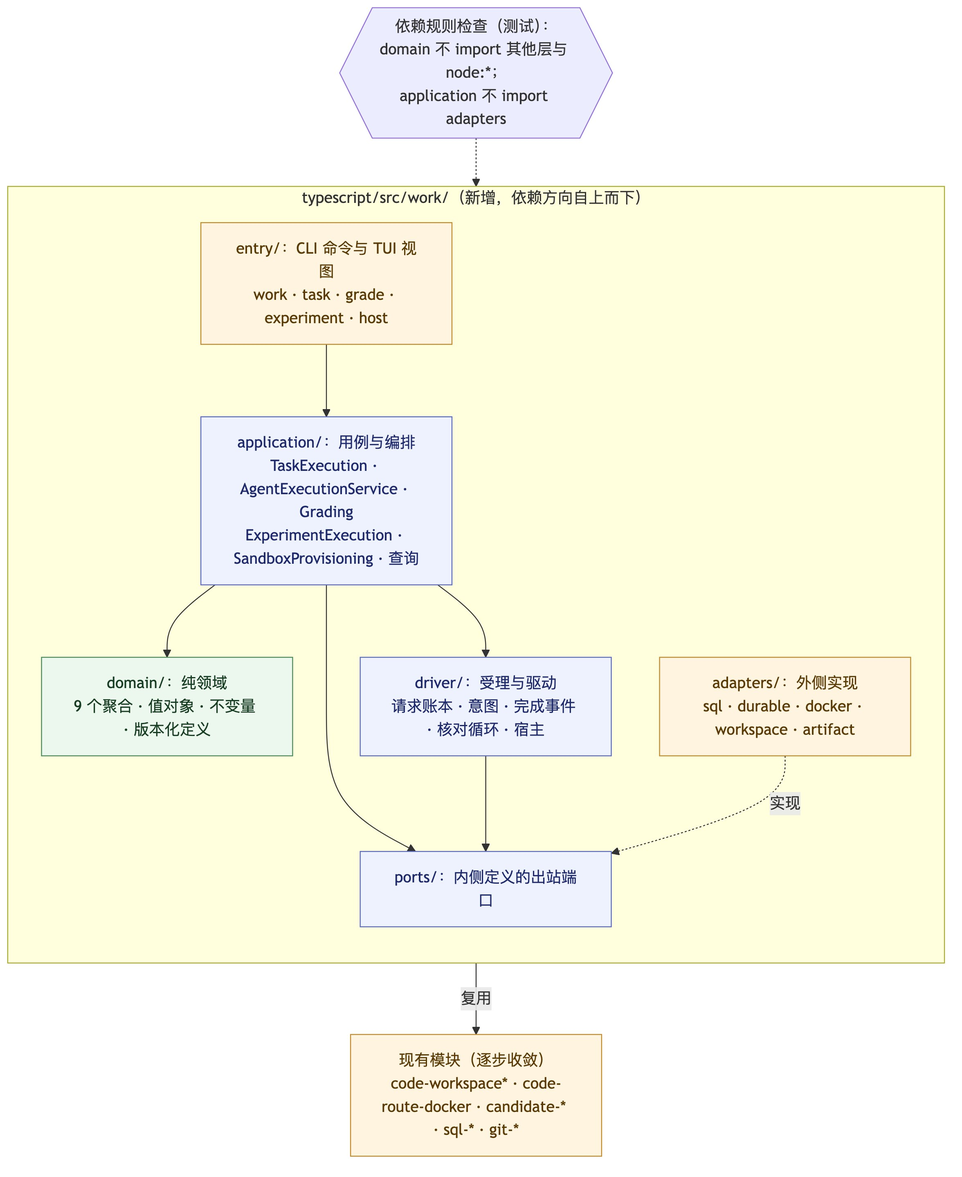
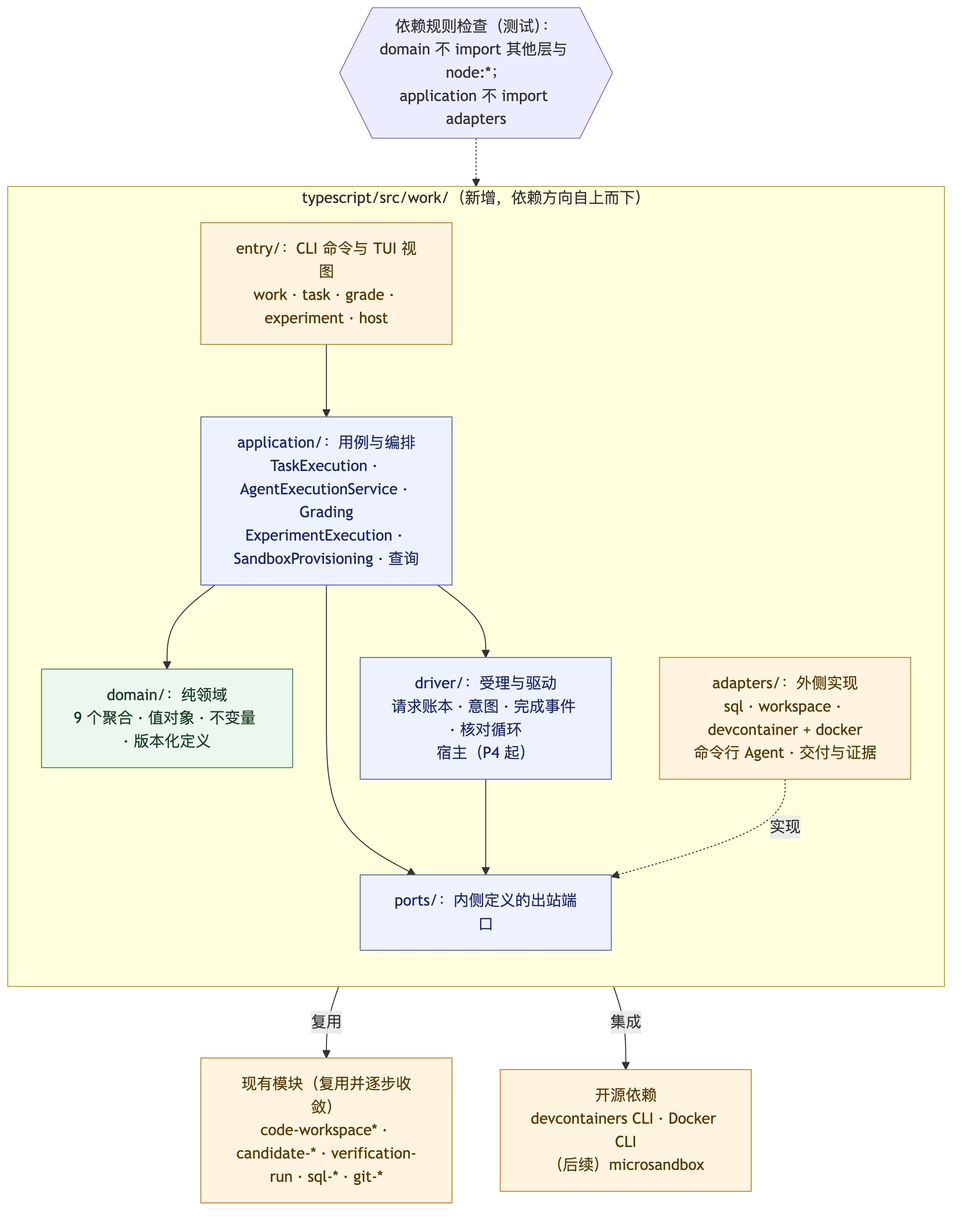
docs: revise implementation plan against the vision (D146)
Second edition of 0002: deliver the bring-your-own-agent contract development loop first, then evaluation assets, then managed execution; integrate devcontainer.json with the devcontainers CLI and Docker instead of building sandboxes; add a local low-friction mode; start managed execution with a command-line agent adapter and make Pi Durable optional. Add external execution, Provider capabilities and devcontainer environments to the target model as proposed D146, redraw the development flow and plan diagrams, and update the vision gap table.

diff --git a/docs/decisions/0002-implementation-plan.md b/docs/decisions/0002-implementation-plan.md
@@ -1,152 +1,152 @@
 # 0002 通用 Agent 执行与评测：实现方案
 
-- 日期：2026-11-02。
-- 状态：**提议，需按[项目愿景](../vision.md)修订后再确认（D145）**。自带 Agent 优先，以及沙箱与隔离优先集成开源实现，会改变第 1、6、8、10 节的范围与顺序。下文保留修订前的原稿。第 10 节列出需要拍板的决定；未列出的部分是按目标模型推导出的工程安排，按常规评审即可。
-- 依据：[目标模型](0001-target-model.md)（D129–D144，已确认）；现有源码结构见第 2 节。
-- 范围：一期的代码组织、存储、驱动、适配器、迁移与切换、里程碑与验证方式。本文不改变业务规则；实现中如果发现规则需要调整，回到 0001 记录。
+- 日期：2026-11-02，第二版。第一版（自建沙箱与驱动、Pi Durable 优先）按 [项目愿景](../vision.md) 修订，原稿见本文件的 Git 历史。
+- 状态：**提议，待用户确认**。需要拍板的决定见第 11 节。
+- 依据：[项目愿景](../vision.md)；[目标模型](0001-target-model.md)（D129–D146）。
+- 范围：一期的交付顺序、代码组织、存储、沙箱集成、Agent 接入、迁移与切换、测试方式。本文不改变业务规则。
 
 ## 1. 结论
 
-1. **在现有仓库中新建 `typescript/src/work/` 子树，按六边形分层**（domain / application / ports / driver / adapters / entry），用一条测试守住依赖方向。现有模块不就地改写，由适配器复用，逐步收敛。
-2. **新增 schema v24：为 9 个运行聚合与版本化定义建专用表**。需要唯一约束或索引的字段用列存放，其余放在带摘要的 JSON 中，三种数据库都要支持。现有的 `idempotency_records` 继续作为请求账本，`ledger_events` 继续作为审计流水。
-3. **M0 先做技术验证，再写业务代码**：Pi Durable 锁定版本后接入容器工具桥接，验证按执行隔离的 SQLite 存储、Docker 暂停与恢复。不通过就回到 D69 重新选型，避免在不可行的内核上堆业务。
-4. **开发闭环（M5）一次性切换**：以“切换时没有运行中的 DevRun”（D114）为前提做离线迁移，迁移时沿用原有 ID。评测闭环（M6）随后单独切换。
-5. **迁移是第一个实现决策**：Issue → Task，DevRun → TaskRun 加 Work，Verification → gate GradingRecord，QA 与评测记录 → 新结构。规则见第 7 节。
+1. **先交付价值 1，再交付价值 2，最后才做托管执行。** 第一个可用版本是“自带 Agent 的契约开发闭环”：用户继续用 Claude Code 或 Codex 开发，Grounds 负责契约、冻结、独立验收和工作线。它复用现有的 skill 工作流与开发 worktree，不需要后台宿主、沙箱或新的 Agent 内核。
+2. **价值 2 紧随其后**：从历史开发沉淀评测项、补充评分依据（隐藏测试、参考答案）、用规则或测试评分。这些都可以在没有托管执行的情况下完成。
+3. **托管执行放在最后**，用于评测时“换一个 Agent 重跑”。Provider 一期先做命令行 Agent 适配器（Claude Code、Codex 的无界面模式），Pi Durable 作为后续可选的、带恢复能力的 Provider。
+4. **沙箱不自建，集成开源实现**：环境定义采用 devcontainer.json，用 devcontainers CLI 构建与启动；生命周期操作（停止、暂停、删除、按标签查询）直接调用 Docker。强隔离后端（microsandbox）作为后续选项。
+5. **本地低摩擦是一期目标**：默认使用 SQLite，为个人用户提供本地归档模式，并让 `grounds init` 一步完成初始化。
+6. 代码组织、存储形态、迁移时沿用 ID、分两次切换，这几项保持第一版的建议。
 
 ## 2. 现状与复用
 
-| 现有 | 规模与形态 | 在新结构中的位置 |
-| --- | --- | --- |
-| SQL 账本（`sql-*.ts`，schema v23） | 关系表承载 Requirement / Issue / DevRun / Candidate / Verification；`eval_records` 与 `runtime_records` 是带版本的 JSON 表；`idempotency_records`、`ledger_events` | 新表并入同一账本；沿用 `Store.write / read` 事务、`SqlDialect` 和三种后端的测试夹具 |
-| `module.ts`（2437 行）、`cli.ts`（2345 行） | Requirement / Issue / DevRun / Candidate / Verification 的命令与 CLI | 开发闭环切换后，DevRun 和 Verification 的写入口停用；Candidate 的提交与归档逻辑由 coding 任务类型的适配器复用 |
-| `code-workspace*.ts`、`code-route-*.ts` | Workspace 配置、缓存、基线、worktree、Docker 路线、暂停围栏、清理 | 由 `adapters/workspace` 与 `adapters/docker` 包装后复用；把与 Issue / DevRun 的绑定换成 Sandbox 归属者 |
-| `candidate-git-archive.ts` 等 | Candidate 的 Git 归档与核对 | coding 交付的存取端口直接复用 |
-| `verification-run.ts` | 独立验收的阶段记录 | 映射为评价者 AgentExecution 的协议阶段；内置独立验收评分器复用其阶段约束 |
-| `evaluation.ts`、`eval-*.ts`，以及 `plugins/grounds/scripts/grounds_eval_*.py` | Suite / Snapshot / Experiment / Run / Grader / QA；Python 协调器与 Codex 采集 | M6 迁移到新结构；Python 协调器与 Codex 采集在 M7 退役（D69） |
-| `env-*.ts` | 共享环境层（`env up / run / down`） | 评测侧的运行资源改由 Sandbox 接管；能复用的 Docker 操作下沉到 `adapters/docker` |
-| `typescript/test`（205 个文件，含 `*-docker.test.ts` 与 `backends.ts`） | 单元、CLI 契约、三后端一致性、Docker 集成 | 新测试沿用同一结构与命名 |
+| 现有 | 在新结构中的位置 |
+| --- | --- |
+| SQL 账本（`sql-*.ts`，schema v23，三种数据库） | 新表并入同一账本，沿用事务、方言与三后端测试夹具 |
+| `module.ts`、`cli.ts` 中 DevRun / Candidate / Verification 的命令 | Candidate 的提交与归档逻辑由 coding 任务类型复用；开发闭环切换后，DevRun 与 Verification 的写入口停用 |
+| `plugins/grounds/skills/grounds` 的开发与验收工作流 | **外部执行的主要入口**：skill 引导自带 Agent 领取 Workspace、提交清单；协调者拉起全新会话做独立验收。改为调用新的 `work` 命令 |
+| `code-workspace*.ts`（配置、缓存、基线、worktree、清理） | Workspace 适配器直接复用；绑定从 Issue / DevRun 改为 Sandbox 归属者 |
+| `code-route-docker.ts`、`repository-environment.ts`、`development-image-*.ts` | 第一阶段继续可用；托管执行阶段由 devcontainer 方案逐步替代，旧配置作为兼容格式保留只读 |
+| `verification-run.ts`、`submitVerification` 的身份与盲验校验 | 外部评价者的协议阶段与独立性校验直接复用 |
+| `evaluation.ts`、`eval-*.ts`、`grounds_eval_*.py` | 评测资产阶段迁移到新结构；Python 协调器与 Codex 采集在退役阶段移除 |
 
-## 3. 代码组织
+## 3. 交付阶段
+
+![交付阶段](../assets/impl-milestones.jpg)
+
+[Mermaid 源](../assets/impl-milestones.mmd)
+
+| 阶段 | 交付 | 对应愿景 | 完成标准 |
+| --- | --- | --- | --- |
+| **P0 领域与存储** | `work/domain` 的 9 个聚合（含外部执行登记）；schema v24；仓储；迁移演练 | 基础 | 不变量与竞态测试（取消先后、移交预留、工作头 CAS、失败类别优先级、外部停止声明）；三后端一致性测试 |
+| **P1 契约开发闭环（自带 Agent）** | TaskExecution、Work、外部执行的登记与提交、gate 加外部评价者、内置独立验收协议、`work` 命令、skill 改造、v24 数据迁移与切换 | 价值 1 | 用 Claude Code 或 Codex 走完目标模型 §7.2 的流程；迁移前后完整性检查通过；旧的 Candidate、验收与选择记录可读 |
+| **P2 本地低摩擦** | 默认 SQLite、本地归档模式、`grounds init` 一步完成、预编译安装包评估 | 价值 3 | 一台只装了 Node 和 Git 的机器，在 5 分钟内完成首个任务的契约、提交与验收（以实测为准） |
+| **P3 评测资产** | 从历史 TaskRun 沉淀评测项；补充评分依据（从被采纳的 Candidate 派生隐藏测试、参考答案）；规则评分与测试评分（命令步骤）；评测集与快照 | 价值 2 | 用一批历史任务生成评测集；对历史交付做测试评分与规则评分；评分记录可追溯到确切材料 |
+| **P4 托管执行与沙箱集成** | devcontainer 环境定义与 SandboxProvisioning；命令行 Agent 适配器；AgentExecutionService；后台宿主与驱动 | 价值 2、4 | 在 devcontainer 中用 Claude Code / Codex 的无界面模式重跑一个评测项；3 个任务并发且互不干扰；宿主崩溃后只核对、不重复执行 |
+| **P5 实验与对比** | ExperimentExecution、重复次数、批次结果查询与按标尺汇总；迁移旧评测记录 | 价值 2 | 同一评测集分别用两个 Agent 跑一个批次，按 D63–D66 查看对比 |
+| **P6 退役** | 删除旧写入路径、Python 协调器与 Codex 采集；旧表只读 | — | 没有新代码引用旧写接口；文档与 skill 同步更新 |
+
+P0 结束后，P1 与 P2 可以并行；P3 只依赖 P1；P4 是第一个需要容器与后台宿主的阶段。每个阶段单独提交 PR，可以独立发布和回退。
+
+## 4. 代码组织
 
 ![代码组织](../assets/impl-layout.jpg)
 
 [Mermaid 源](../assets/impl-layout.mmd)
 
+在 `typescript/src/work/` 下分层：
+
 | 目录 | 内容 | 依赖规则 |
 | --- | --- | --- |
-| `work/domain/` | 9 个聚合、值对象、版本化定义、失败类别、Grade 校验 | 不 import 其他层、`node:*` 或现有 I/O 模块 |
-| `work/ports/` | 出站端口接口：仓储、AgentProvider、SandboxRuntime、WorkspacePort、DeliveryStore、EvidenceStore、DurableStateStore、Clock / Ids | 只依赖 domain |
-| `work/application/` | 用例与编排，以及查询（验收结论、工作结论、批次结果） | 依赖 domain、ports、driver，不依赖 adapters |
-| `work/driver/` | 请求账本、意图、完成事件投递、核对循环、宿主监管 | 依赖 ports |
-| `work/adapters/` | SQL 仓储、Durable、Docker、Workspace、交付与证据存取 | 实现 ports，可以复用现有模块 |
-| `work/entry/` | CLI 命令组与输出 envelope | 只调用 application |
-| `work/composition.ts` | 组合根：读取配置、创建适配器、注入服务 | — |
+| `domain/` | 9 个聚合、值对象、版本化定义、失败类别、Grade 校验 | 不 import 其他层、`node:*` 或现有 I/O 模块 |
+| `ports/` | 仓储、AgentProvider（含能力声明）、SandboxRuntime、WorkspacePort、DeliveryStore、EvidenceStore、Clock / Ids | 只依赖 domain |
+| `application/` | 用例、编排与查询 | 依赖 domain、ports、driver，不依赖 adapters |
+| `driver/` | 请求账本、意图、完成事件、核对循环、宿主（P4 才需要） | 依赖 ports |
+| `adapters/` | SQL、Workspace、devcontainer 与 Docker、命令行 Agent、交付与证据存取 | 实现 ports，可以复用现有模块 |
+| `entry/` | CLI 命令组：work、task、grade、experiment、host | 只调用 application |
 
-新增 `test/work-architecture.test.ts`，静态检查 import 图，确保上述依赖规则成立。
+领域代码写成纯函数 `decide(state, command) → { state, events }`；`test/work-architecture.test.ts` 静态检查依赖方向。
 
-**领域实现形态：** 每个聚合写成纯函数 `decide(state, command) → { state, events } | DomainError`，再加 `assertInvariants(state)`。仓储负责按版本比较保存；领域只依据当前状态做判定。这样状态机可以穷举测试，重复和竞态也可以离线模拟。
-
-## 4. 存储
+## 5. 存储
 
 ![存储表](../assets/impl-storage.jpg)
 
 [Mermaid 源](../assets/impl-storage.mmd)
 
-- **一张表对应一个聚合**。每张表都有 `id`、`version`、`record_digest` 和 `body_json`；以下内容单独成列，以便加约束和索引：
-  - `sandboxes` 的生命周期预留与占用租约（单值，按版本比较）；
-  - `experiment_members` 的 `(experiment_run_id, case_key, repeat_index)` 唯一；
-  - `task_runs` 的“每个 TaskRun 至多一个 worker”；
-  - `works` 的工作头。
-- **版本化定义**：Task、Agent、Grader、Environment、Suite 共用 `definitions` 与 `revisions` 两张表，`kind` 区分类型；修订不可变，`(definition_id, seq)` 唯一，摘要覆盖内容。现有 `WorkspaceConfigurationVersion` 保持原样（D109）。
-- **命令步骤**作为 `grading_command_steps` 子表，与 GradingRecord 同事务写入，共用 GradingRecord 的版本号。
-- **Artifact** 的元数据放在 `artifacts` 表，内容复用分块 blob（与 `eval_blobs` 结构一致，抽出共用实现）；对象存储（S3）作为可选后端，后续再交付（D46）。
-- **请求账本**复用 `idempotency_records`（同一身份、不同输入时报告冲突）。**意图**与**完成事件**各建新表；完成事件与子聚合的终结写在同一个事务里。
-- **Candidate 关系表**：新增可空的 `task_run_id` 外键，指向 `task_runs`。迁移后 TaskRun 沿用 DevRun 的 ID，因此旧行可以直接回填。`dev_run_id` 改为可空并保留给历史；SQLite 需要重建表，这一步放在 v24 迁移里完成，在三种后端上分别验证。
-- **轨迹与 Agent 内部状态不进业务账本**：轨迹经 EvidenceStore 写入分块 blob，账本只存引用与覆盖说明；Durable 的内部状态由 DurableStateStore 按执行隔离保存（一期使用 SQLite 文件，位于数据根目录下，D72）。
+保持第一版的设计：每个聚合一张表，需要唯一约束或索引的字段单独成列，其余字段放进带摘要的 JSON；版本化定义共用两张表；请求防重复用 `idempotency_records`；意图与完成事件各建新表；`candidates` 增加 `task_run_id`。外部执行登记作为 TaskRun / GradingRecord 的内部数据保存，不单独建表。会话记录这类证据写入分块 blob。
 
-## 5. 驱动与宿主
+## 6. 沙箱与环境：集成方案
 
-- **受理**：入口用例在一个事务中完成：登记请求身份（请求账本），完成领域状态转换，写入下一步意图，然后返回身份。
-- **推进**：宿主进程读取待执行的意图，调用适配器执行外部动作，再在一个事务中写入回执、完成状态转换并登记下一个意图。如果子流程终结，同一事务里还要写入完成事件。
-- **投递**：完成事件按“父意图 → 模块处理入口”幂等投递，处理成功后标记已投递；宿主重启后，重新投递尚未投递的事件。
-- **核对**：宿主启动时，以及按固定周期，扫描“已登记、结果未知”的意图，调用所属模块的 `reconcile` 接口。核对只确认实际状态，不自动恢复执行（D74）。
-- **宿主进程**：`grounds host`，每个数据根一个，用文件锁保证单实例。CLI 首次受理异步工作时，若宿主未运行就拉起它；宿主在没有活动工作且超过空闲期后退出。CLI 的等待只是轮询查询；Ctrl-C 只停止等待，取消必须显式执行（D73）。
-- **名额**：Agent 名额由宿主内存中的计数器加持久化的占用记录共同维护，启动时从持久记录恢复，避免进程崩溃后多算或少算。
-
-## 6. 适配器
-
-| 端口 | 一期实现 | 关键验证 |
+| 需要 | 采用 | 理由 |
 | --- | --- | --- |
-| AgentProvider | Pi Durable，锁定版本。按执行启动独立进程，ExecutionEnv 绑定 Sandbox 的工具桥接，事件转换为公共轨迹事件并保留原始记录 | 不回退到宿主工具；停止确认需同时核对 Durable 进程和容器；同一请求重开不重复调用模型 |
-| DurableStateStore | 每个执行一个 SQLite 文件，路径不暴露给任务工具 | 单一拥有者；重开后取回原结果 |
-| SandboxRuntime | 复用 `DockerRouteEngine`：创建、挂载、暂停、恢复、查询、回收；命令与文件桥接校验 fencing token | 暂停时依赖服务不动；连接失败不当作已停止 |
-| WorkspacePort | 复用 `code-workspace` 的配置、缓存、基线与 worktree；working 类型增加一个可写输出目录 | 清理保护、借用不删除 |
-| DeliveryStore | Candidate：现有 Git 归档；Artifact：分块 blob | 同一操作身份重试返回同一个引用（D47） |
-| EvidenceStore | 轨迹、原始 Provider 记录、命令输出：分块 blob | 读回内容与摘要一致 |
-| 仓储 | SQL，SQLite / PostgreSQL / MySQL | 三后端一致性测试 |
+| 环境定义 | **devcontainer.json** 标准（附 lockfile 摘要与镜像摘要） | 业界通用，用户仓库常常已有；lockfile 可以固定 feature 版本，有利于复现 |
+| 构建与启动 | **devcontainers CLI**（`build`、`up --id-label`、`exec`） | 官方参考实现，可以作为 npm 依赖引入，不需要常驻服务 |
+| 生命周期 | **Docker CLI** 按标签查询、暂停、恢复、停止、删除 | devcontainers CLI 还没实现 `stop` / `down`；用标签标识归属，与现有的资源归属校验方式一致 |
+| Workspace | 现有的开发 worktree 与只读基线 | 已有实现、测试与清理保护（D109） |
+| 强隔离（后续） | microsandbox（本地 microVM，Apache-2.0，带 TS SDK） | 适合不受信任的托管执行；作为 SandboxRuntime 的第二个实现，P4 之后再评估 |
 
-## 7. 迁移与切换
+不采用的方案：
 
-**前提：** 切换时没有运行中的 DevRun（D114）。迁移是离线的一次性 schema 迁移（v23 → v24），开始前先运行完整性检查，结束后再运行一次；旧表保留只读，直到 M7。
+| 方案 | 原因 |
+| --- | --- |
+| container-use | 面向 Agent 的 MCP 服务，自己管理 git 分支，与 Grounds 对 worktree 和分支的所有权冲突；目前还是实验性项目 |
+| Docker Sandboxes（`sbx`） | 需要登录 Docker，开源与许可条件有待确认 |
+| E2B、Daytona | 以云端为主；Daytona 的开源仓库已于 2026 年 6 月停止维护 |
+| AIO Sandbox | 一体化镜像（浏览器、VNC、Jupyter）太重；以后有网页类任务时再考虑 |
 
-| 旧记录 | 新记录 | 规则 |
+**外部执行的隔离**：自带 Agent 运行在宿主上，隔离靠独立的 worktree 加 Agent 自身的沙箱模式。如果任务需要运行时环境（数据库、特定语言版本），Agent 通过 `devcontainer exec` 在该任务的容器中执行命令，多个任务之间互不干扰。
+
+**托管执行**：命令行 Agent 运行在任务的 devcontainer 里，凭据通过环境变量注入，不写入 Workspace。
+
+## 7. Agent 接入
+
+| 方式 | 一期实现 | 能力 |
 | --- | --- | --- |
-| Issue / IssueRevision | Task / TaskRevision（kind = coding） | 沿用原 ID；目标、约束、验收条目、基线、目标分支转为修订内容；Requirement 内容以固定材料引用保留（D107） |
-| DevRun | TaskRun | 沿用原 ID；submitted 且有冻结 Candidate → 已交付，Manifest 的 origin 为 `caller`，带迁移标记；abandoned → 已取消；open → 已取消，原因记为迁移 |
-| DevRun 树 | Work | 按目标模型第 12 节划分；只有一个叶子时设为工作头，原因记“迁移默认”；有多个叶子时为 `head-unselected` |
-| Candidate | Candidate | 不变；回填 `task_run_id` |
-| Verification（含 ultra 质量部分） | gate GradingRecord | 逐条三段直接映射；GraderRevision 记为“旧独立验收（迁移）”；ultra 的质量部分作为附带报告保留 |
-| VerificationRun | 评价者 AgentExecution（迁移态） | 记录阶段与协议命令观测，标注轨迹缺失 |
-| Selection / Completion / DeliveryLink | 保持不变 | 继续按 Candidate 关联；它们属于业务采纳，不是验收 |
-| QA 定义 | TaskRevision（kind = working）加评分绑定 | 公开问题进入任务；参考答案与隐藏标准进入评分绑定 |
-| Suite / Snapshot / Experiment / Run / Grader / execution / result | 版本化定义、Experiment、ExperimentRun 成员、GradingRecord | M6 迁移；无法证明批次边界的旧记录保留来源，不伪造批次 |
-| `runtime_records` 中的 Workspace 实例与路线 | 保持原格式，作为 Workspace 适配器的存储 | 把绑定从 Issue / DevRun 改为 Sandbox 归属者，旧绑定仍可读 |
+| 外部执行（日常开发） | skill 加 CLI：领取 Workspace、提交清单、声明停止或放弃、导入会话记录（Claude Code、Codex 的会话文件格式） | 不受 Grounds 控制；停止靠声明；会话记录覆盖说明为“外部提供” |
+| 托管执行：命令行 Agent 适配器 | 在容器内以无界面模式运行 `claude -p` 或 `codex exec`，采集它们输出的会话文件并转为公共轨迹事件，同时保留原始记录 | 可以停止（停掉容器内进程），**不支持恢复**；中断以 infrastructure 结束 |
+| 托管执行：Pi Durable（后续可选） | 作为带恢复能力的 Provider 接入 | 支持恢复原会话；按需评估 |
 
-**切换顺序：** 先发布同时包含新旧代码的版本（新入口隐藏），在测试数据上演练迁移。正式迁移后，`devrun` 与 `verification` 的写命令返回“已迁移，请使用 work 命令”，读命令继续可用。评测侧在 M6 切换前保持旧路径。
+Provider 用能力声明表达差异（D68），应用层只依赖声明，不按 Agent 名字写分支。
 
-## 8. 里程碑
+## 8. 本地低摩擦
 
-![里程碑](../assets/impl-milestones.jpg)
+| 现状 | 一期目标 |
+| --- | --- |
+| 必须先配置 SQL 台账 | `grounds init` 默认在数据根目录下创建 SQLite，零配置可用；共享数据库仍可选 |
+| Candidate 归档必须写入受保护的远端命名空间，并能校验保护 | 新增**本地归档模式**：显式选择后，归档写入本机的裸仓库，记录中标注“本地归档，无远端保护”。远端模式的规则不变，仍然在无法确认保护时拒绝（fail closed） |
+| 原生依赖需要编译工具链 | 评估预编译包或替代依赖，以实测数据为准 |
+| 需要 Docker | 只有需要运行时环境或托管执行时才需要 |
 
-[Mermaid 源](../assets/impl-milestones.mmd)
+## 9. 迁移与切换
 
-| 里程碑 | 交付 | 完成标准 |
-| --- | --- | --- |
-| M0 技术验证 | 一次性验证代码（不进入生产路径）与验证报告 | 锁定 Durable 版本；ExecutionEnv 的文件与命令全部经容器桥接；3 个执行并发、各自使用独立 SQLite；SIGKILL 后由新进程接管同一执行且不重复调用模型；Docker 暂停与恢复后容器内状态保留；结论写入 `docs/research/` |
-| M1 领域核心 | `work/domain` 与依赖规则测试 | 每个聚合的状态转换与不变量都有测试，覆盖目标模型的竞态规则（取消先后、移交预留、工作头 CAS、失败类别优先级） |
-| M2 存储与驱动 | schema v24（新表）、仓储、请求账本、意图、完成事件、核对循环、`grounds host` | 三后端一致性测试通过；用伪适配器模拟宿主在任意步骤崩溃，重启后只核对、不重复执行 |
-| M3 Sandbox | SandboxProvisioning 与 Docker / Workspace 适配器 | 申请、暂停、恢复、移交、释放、到期清理的竞态测试；Docker 集成测试；占用者契约与 fencing token 校验 |
-| M4 Agent 执行 | AgentExecutionService 与 Durable 适配器、交付与证据存取 | 真实容器加模拟模型的端到端测试：归档失败只补归档；停止状态未知时不释放占用；恢复沿用原身份 |
-| M5 开发闭环与切换 | TaskExecution、Work、Grading（gate、内置独立验收评分器）、`work` CLI、v24 数据迁移 | 开发闭环的流程测试（目标模型第 7.2 节的流程图）；迁移演练：迁移前后的完整性检查都通过，旧 Candidate、验收、选择记录可读 |
-| M6 评测闭环 | measure 评分（规则、测试、Agent）、ExperimentExecution、批次结果查询、评测记录迁移 | 一个批次混合 coding 与 working 任务、并发数为 3 的重叠验证；D56–D66 的验收目标 |
-| M7 退役 | 删除旧的写入路径、Python 协调器与 Codex 采集；旧表改为只读 | 没有新代码引用旧写接口；文档与技能同步更新 |
+保持第一版的规则：Issue → Task（kind = coding），DevRun → TaskRun，并沿用原 ID；DevRun 树 → Work（按目标模型第 12 节）；Verification → gate GradingRecord，评价者记为外部执行登记；QA 与评测记录在 P3、P5 迁移。迁移离线进行，前后各跑一次完整性检查；旧表保留只读，到 P6 为止。现有的 Workspace 实例与路线记录保持原格式。
 
-M1 与 M0 可以并行。M2 之后各里程碑按顺序推进；每个里程碑单独提交 PR，并同步更新 `docs/architecture.md`（届时新建）。
+切换分两次：P1 切换开发闭环（旧的 `devrun` 与 `verification` 写命令停用，读命令保留）；P5 切换评测。
 
-## 9. 测试策略
+## 10. 测试策略
 
 | 层次 | 方法 |
 | --- | --- |
-| 领域 | 纯函数单元测试，加生成命令序列的性质测试（不变量在任何序列下都成立） |
-| 应用 | 伪适配器加故障注入：在每个外部动作前后崩溃并重启，断言只核对、不重复调用模型、不重复创建 |
-| 存储 | `test/backends.ts` 上的三后端一致性测试，覆盖唯一约束与 CAS 冲突 |
-| 适配器 | 端口契约测试：同一组用例同时跑伪实现与真实实现；Docker 测试沿用 `*-docker.test.ts` 约定 |
-| 端到端 | 两条流程（开发、评测样本）以模拟模型在真实容器中运行；使用真实模型的验证单独标注，不计入常规 CI |
-| 迁移 | 由现有测试夹具构造的旧数据，按“迁移 → 完整性检查 → 新查询 → 旧读命令”的顺序断言 |
+| 领域 | 纯函数单元测试，加命令序列的性质测试 |
+| 应用 | 伪适配器加故障注入；外部执行的停止声明、迟到提交与取消竞态 |
+| 存储 | `test/backends.ts` 三后端一致性测试 |
+| 适配器 | 端口契约测试，伪实现与真实实现跑同一组用例；devcontainer 与 Docker 测试沿用 `*-docker.test.ts` 约定 |
+| 端到端 | P1：用真实的自带 Agent 走一次开发闭环（单独标注，不计入常规 CI）；P4：在容器里用命令行 Agent 跑模拟任务 |
+| 迁移 | 用现有测试夹具构造旧数据，依次检查迁移、完整性、新查询和旧的读命令 |
 
-## 10. 需要确认的决定
+## 11. 需要确认的决定
 
-| # | 决定 | 推荐 | 其他选项 |
-| --- | --- | --- | --- |
-| 1 | 代码组织 | 新建 `src/work/` 子树，分层并用测试守护依赖方向 | 继续平铺在 `src/`，只靠文件名前缀区分 |
-| 2 | 存储形态 | 每个聚合一张专用表，关键字段成列、其余存 JSON | 全部放进现有 `eval_records` / `runtime_records` 的 JSON 表（无法用数据库约束守护唯一性） |
-| 3 | 迁移时的 ID | 沿用原 ID（Issue → Task、DevRun → TaskRun） | 新建 ID 加映射表（引用更清晰，但每个旧引用都要翻译） |
-| 4 | 切换方式 | 开发闭环与评测闭环分两次一次性切换，旧写入命令停用、读命令保留 | 新旧并行一段时间（违背 D38“单一权威状态”） |
-| 5 | M0 不通过时 | 暂停业务实现，回到 D69 重新评估内核 | 先用简化 Provider 继续，后期再换 |
+| # | 决定 | 推荐 |
+| --- | --- | --- |
+| 1 | 代码组织 | 新建 `src/work/` 子树，分层并用测试守护依赖方向 |
+| 2 | 存储形态 | 每个聚合一张专用表，需要约束的字段单独成列 |
+| 3 | 迁移时的 ID | 沿用原 ID |
+| 4 | 切换方式 | 开发闭环（P1）与评测（P5）分两次切换，旧写入口停用、读入口保留 |
+| 5 | 交付顺序 | 先做价值 1（自带 Agent 的开发闭环），再做价值 2，最后做托管执行 |
+| 6 | 托管 Provider | 一期先做命令行 Agent 适配器（Claude Code、Codex 的无界面模式），Pi Durable 后续可选 |
+| 7 | 环境与沙箱 | devcontainer.json 加 devcontainers CLI，生命周期操作用 Docker CLI；microsandbox 作为后续的强隔离选项 |
+| 8 | 本地归档模式 | 允许个人用户显式选择本地归档，记录中标注“无远端保护”；远端模式仍然在无法确认保护时拒绝 |
 
-## 11. 风险
+## 12. 风险
 
-- **Durable API 不稳定**：上游仍是实验性接口，文档与 npm 版本曾不一致。应对：锁定版本，所有调用经适配器，契约测试覆盖所用接口。
-- **SQLite 重建表的迁移风险**：`candidates` 的外键调整需要重建表。应对：在迁移演练中覆盖三种后端，迁移前自动备份。
-- **`module.ts` 与 `cli.ts` 体量大**：切换时要逐个停用旧写入口。应对：先在 CLI 层统一拦截，再分批删除代码。
-- **工作量**：M0–M7 涉及存储、宿主进程、容器与新内核，属于大型重构；每个里程碑都应可以独立发布和回退。
+- **外部执行的独立性较弱**：外部评价者的独立性只能靠身份校验加协议约束，无法像托管执行那样隔离材料。应对：记录中如实标注；托管执行就绪后，可以用托管评价者复核。
+- **命令行 Agent 的输出格式会变化**：Claude Code、Codex 的会话文件格式不是稳定接口。应对：锁定版本，转换器写契约测试，同时保留原始记录。
+- **devcontainers CLI 的缺口**：它还没实现 stop / down，生命周期需要直接调用 Docker。应对：用标签管理资源归属，只回收带 Grounds 标签的资源。
+- **本地归档模式削弱了保护**：这是为了降低门槛做的明确取舍，必须在记录和界面上醒目标注，并且不能被误当作远端归档。
+- **SQLite 重建表的迁移风险**与**旧入口体量大**，同第一版的分析。

diff --git a/docs/decisions/0001-unified-agent-evaluation.md b/docs/decisions/0001-unified-agent-evaluation.md
@@ -1,6 +1,6 @@
 # 通用 Agent 评测：开发共识与实施依据
 
-- 日期：2026-10-31；最近更新：2026-11-02（D129–D144 目标模型 R2 已确认；D145 确立项目愿景）。
+- 日期：2026-10-31；最近更新：2026-11-02（D129–D144 目标模型 R2 已确认；D145 确立项目愿景；D146 提议按愿景修订执行与环境模型）。
 - 决策状态：**已接受总体方向；实现尚未完成**。
 - 范围：Grounds CLI 的评测领域模型、Agent 适配、轨迹与产物、并发，以及评测与开发共用的环境治理领域模型和容器执行。
 - 用途：持续维护的开发依据。后续讨论形成的新结论更新本文件；提议、已确认要求与实际完成情况分别记录。
@@ -1934,6 +1934,20 @@ flowchart LR
 - 风险：大厂产品在快速吸收“规格驱动开发”；Vibe Kanban 已宣布停止维护，说明纯编排界面难以独立成立。
 
 **影响：** 0002 标记为“需按愿景修订”；[项目愿景](../vision.md)第 7 节列出待修订的差距。生产代码未改动。
+
+#### D146：按愿景修订执行与环境模型——外部执行、Provider 能力、devcontainer 环境——提议，待用户确认
+
+**来源：** 2026-11-02，按 D145 与项目愿景修订目标模型和实现方案。本条与 [0002 实现方案](0002-implementation-plan.md) 第二版一起提交，等待用户确认。
+
+| 修改 | 理由 |
+| --- | --- |
+| **新增“外部执行”**：worker 与评价者都可以是用户自带的 Agent，在 Grounds 准备的 Workspace 中工作，通过 CLI 或 skill 登记与提交；Manifest 新增 origin `external`；停止只能声明，记录中注明“声明，未核实”；取消须等到停止声明 | 愿景原则 1（自带 Agent 优先）。这条路径现有的 skill 工作流已经具备，只是此前的目标模型没有表达它 |
+| **外部评价者**：GradingRecord 可以登记外部评价者，身份须与 worker 不同，只获得以摘要绑定的盲验材料，按协议阶段提交逐条报告 | 延续现有的独立验收体验（D115），并如实标注独立性的保证程度 |
+| **Provider 能力声明**：托管执行能否恢复由 Provider 声明；不支持恢复的执行，中断后经核对以“中断”终结，TaskRun 记为 infrastructure 失败 | 一期先做命令行 Agent 适配器（Claude Code、Codex 的无界面模式），它不支持恢复；Pi Durable 改为后续可选。D68 的能力声明随之落地 |
+| **环境定义采用 devcontainer.json**，由 devcontainers CLI 构建与启动，生命周期操作用 Docker CLI；现有仓库环境配置作为兼容格式 | 愿景原则 5（集成基础设施）与原则 6（低摩擦）：用户仓库常常已有 devcontainer 配置 |
+| 一期实验样本只使用托管执行 | 外部执行无法由 Grounds 自动重跑 |
+
+完整规则见[目标模型](0001-target-model.md)第 4.7、8、9 节，实现安排见 [0002 实现方案](0002-implementation-plan.md)。
 
 ## 3. 核心领域概念
 

diff --git a/docs/vision.md b/docs/vision.md
@@ -52,10 +52,10 @@
 
 ## 7. 与现有设计的关系
 
-本文首版确立时，以下设计与原则存在差距，需要在后续设计中修订：
+本文首版确立时，以下设计与原则存在差距。D146 与 [0002 第二版](decisions/0002-implementation-plan.md) 已在设计上修订，状态如下；实现完成后从本节移除对应条目。
 
-- **执行内核（D69）**：一期“只支持 Pi Durable”被当作日常开发的前提，与原则 1 冲突。应改为：自带 Agent 的开发路径是一等能力，托管执行主要用于评测重跑。
-- **实现方案（[0002](decisions/0002-implementation-plan.md)）**：M2–M4 自建宿主、驱动与沙箱的范围，与原则 5 冲突。沙箱与隔离应先调研并集成现成的开源实现。
-- **本地低摩擦**：当前配置要求 SQL 台账、远端归档保护、原生编译依赖等，与原则 6 有差距，需要提供开箱即用的本地模式。
-
-修订完成后，从本节移除对应条目。
+| 差距 | 设计修订 | 状态 |
+| --- | --- | --- |
+| 执行内核（D69）曾被当作日常开发的前提 | 外部执行（自带 Agent）是日常开发的主要路径；托管执行一期先做命令行 Agent 适配器，Pi Durable 后续可选 | 设计已提议，待确认与实现 |
+| 实现方案曾计划自建宿主、驱动与沙箱 | 环境采用 devcontainer.json 加 devcontainers CLI；宿主只在托管执行阶段（P4）引入 | 设计已提议，待确认与实现 |
+| 配置门槛高（SQL 台账、远端归档保护、原生编译依赖） | 默认 SQLite、本地归档模式、一步初始化（P2） | 设计已提议，待确认与实现 |

diff --git a/docs/README.md b/docs/README.md
@@ -14,7 +14,7 @@ Grounds keeps a versioned ledger of requirements, issues, development runs, cand
 - [Decisions](decisions/README.md): accepted directions, alternatives, and implementation status.
 - [通用 Agent 评测开发共识](decisions/0001-unified-agent-evaluation.md): living development guide for task, Agent, trajectory, artifact, grading, concurrency, and container boundaries; implementation pending.
 - [通用 Agent 执行与评测目标模型（R2）](decisions/0001-target-model.md): accepted consolidated target model (D129–D144) with aggregates, invariants, application modules and flows; read before the full decision record; implementation pending.
-- [通用 Agent 执行与评测实现方案](decisions/0002-implementation-plan.md): proposed code layout, schema v24, driver and host, adapters, migration and milestones M0–M7; pending decisions.
+- [通用 Agent 执行与评测实现方案](decisions/0002-implementation-plan.md): proposed second edition: bring-your-own-agent development first, then evaluation assets, then managed execution; devcontainer-based sandbox integration, local low-friction mode, migration and phases P0–P6; pending decisions.
 - [Grounds workflow skill](../plugins/grounds/skills/grounds/SKILL.md): agent workflow entry point.
 - [Agent documentation research](research/agent-documentation.md): historical evidence and proposals; follow the maintenance rules above for adopted policy.
 - [开源 Agent Artifact 源码调研](research/agent-artifact-design.md): pinned-source comparison of ADK, LangChain and smolagents; findings and proposals, not implemented policy.

diff --git a/docs/decisions/README.md b/docs/decisions/README.md
@@ -5,5 +5,5 @@ All decisions build on the [project vision](../vision.md). Decision status descr
 | Decision | Status | Implementation |
 | --- | --- | --- |
 | [0001 — 通用 Agent 评测：开发共识与实施依据](0001-unified-agent-evaluation.md) | Accepted direction; maintained as discussion evolves | Pending; see gaps and acceptance targets in the record |
-| [0001 — 通用 Agent 执行与评测：目标模型（R2）](0001-target-model.md) | Accepted (D129–D144); current target model | Pending |
-| [0002 — 通用 Agent 执行与评测：实现方案](0002-implementation-plan.md) | Proposed; must be revised against the vision (D145) | Not started |
+| [0001 — 通用 Agent 执行与评测：目标模型（R2）](0001-target-model.md) | Accepted (D129–D145), D146 proposed; current target model | Pending |
+| [0002 — 通用 Agent 执行与评测：实现方案](0002-implementation-plan.md) | Proposed (second edition, revised against the vision); pending decisions in §11 | Not started |
